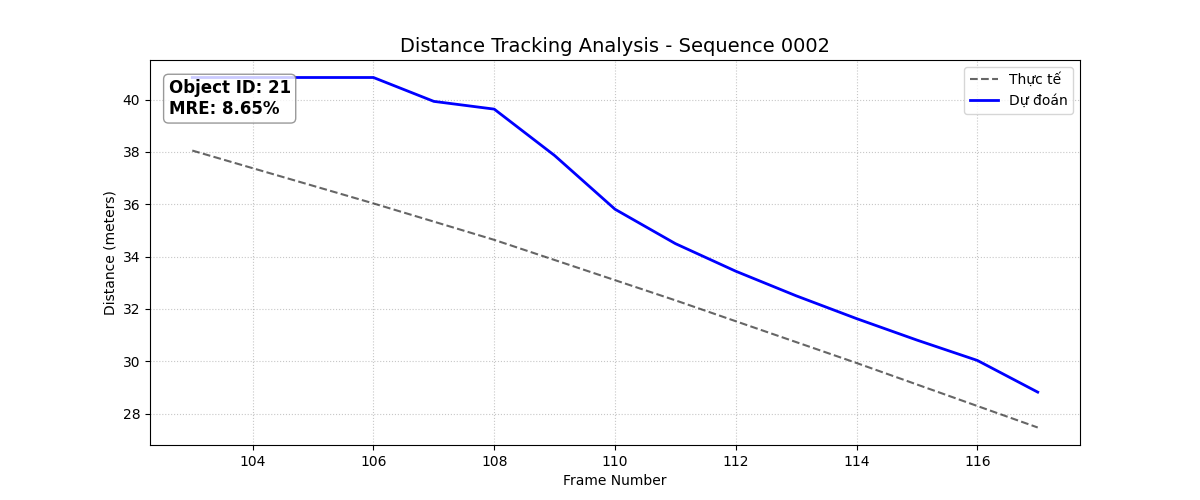
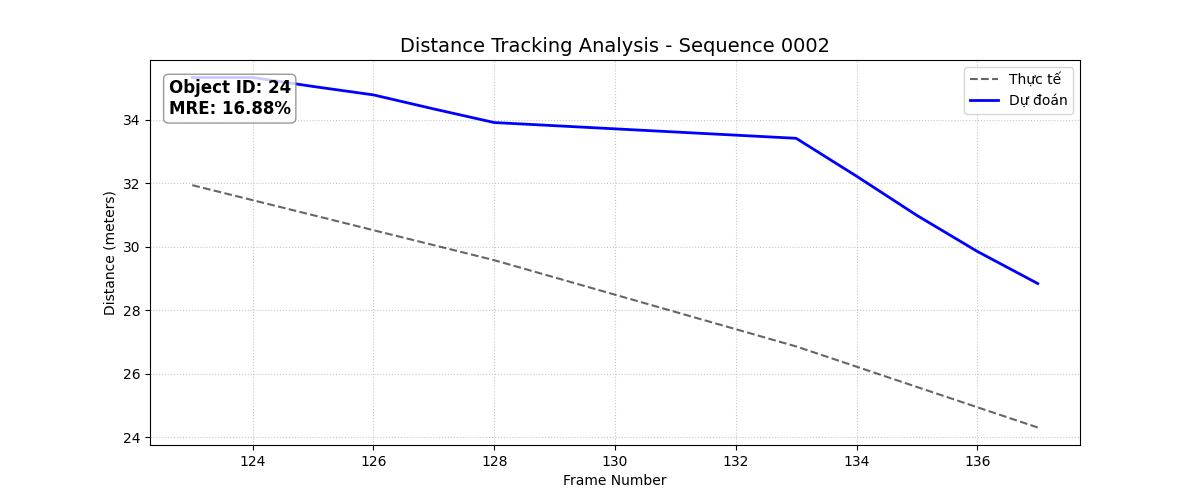
docs: chạy lộn data

diff --git a/vebieudo_mre.py b/vebieudo_mre.py
@@ -45,7 +45,7 @@ def draw_mre_chart(csv_path):
 
 
 def draw_comparison_chart(seq):
-    df = pd.read_csv(f'logs/1_{seq}_details.csv')
+    df = pd.read_csv(f'logs/6_{seq}_details.csv')
     best_id = df['obj_id'].value_counts().idxmax()
     subset = df[df['obj_id'] == best_id]
 
@@ -72,9 +72,9 @@ def draw_comparison_chart(seq):
     plt.savefig(f'plots/6_comparison_chart_{seq}.png')
     plt.show()
 
-draw_mre_chart('final_results_1.csv')
-# for i in range(21):
-#     if i == 5 or i == 8 or i == 12 or i == 14 or i == 17:
-#         continue
-#     draw_comparison_chart(f"{i:04d}")
+# draw_mre_chart('final_results_1.csv')
+for i in range(21):
+    if i == 5 or i == 8 or i == 12 or i == 14 or i == 17:
+        continue
+    draw_comparison_chart(f"{i:04d}")
     
